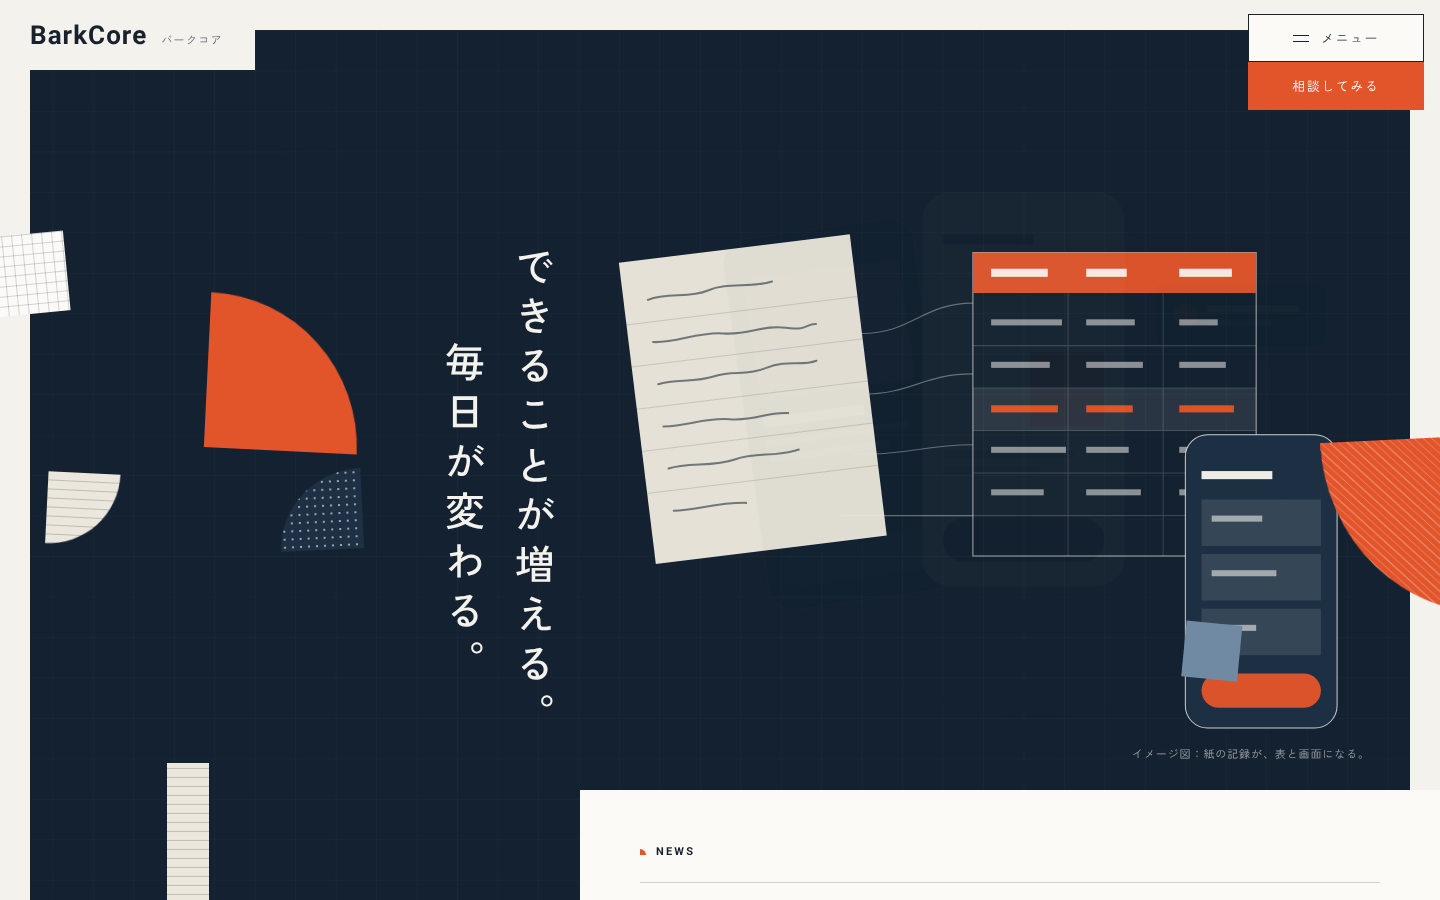
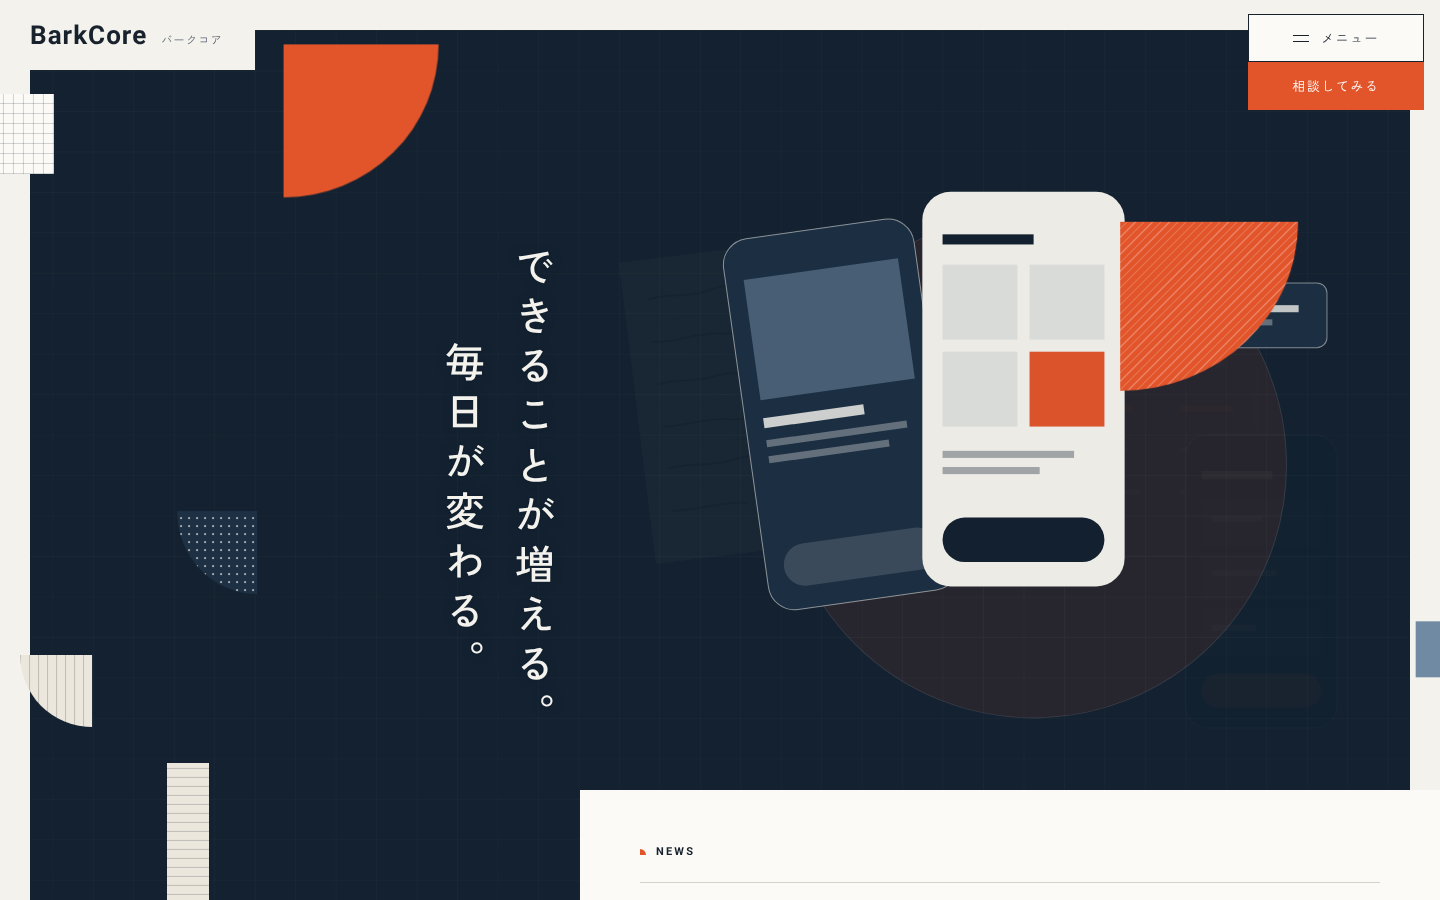
自社HP：メンバー削除、イメージ図の文言削除、FV切替時の文字重なりを修正
Claude-Session: https://claude.ai/code/session_01EobF4efUXWTodLQiocFJ82

diff --git a/03_outputs/2026-10-12_BarkCoreHP_トップ/index.html b/03_outputs/2026-10-12_BarkCoreHP_トップ/index.html
@@ -65,7 +65,7 @@ button{font:inherit;color:inherit}
 .rot{transform:rotate(var(--rot,-40deg));transform-origin:left bottom;transition:transform 2s var(--ease-out-expo)}
 .rot.is-active{transform:rotate(0)}
 /* スクロールに合わせてずれる断片（参考：PallaxEffect） */
-.plx{will-change:transform}
+.plx{}
 .deco{position:absolute;pointer-events:none}
 
 /* ---------- オープニング ---------- */
@@ -132,15 +132,12 @@ button{font:inherit;color:inherit}
 .fv-stage{position:relative;height:100%;background:var(--ink);overflow:hidden}
 .scene{position:absolute;inset:0;width:100%;height:100%;opacity:0;transition:opacity 1s var(--ease-sine-out)}
 .scene.is-on{opacity:1}
-.fv-copy{position:absolute;left:calc(400 * var(--px));top:clamp(110px,24vh,230px);z-index:5;writing-mode:vertical-rl;color:var(--paper);font-size:clamp(28px,calc(40 * var(--px)),44px);font-weight:500;letter-spacing:.24em;line-height:1.75;font-feature-settings:normal;white-space:nowrap}
+.fv-copy{position:absolute;left:calc(400 * var(--px));top:clamp(110px,24vh,230px);z-index:5;writing-mode:vertical-rl;color:var(--paper);font-size:clamp(28px,calc(40 * var(--px)),44px);font-weight:500;letter-spacing:.24em;line-height:1.75;font-feature-settings:normal;white-space:nowrap;text-shadow:0 0 10px var(--ink),0 0 3px var(--ink),0 0 1px var(--ink)}
 .fv-line{display:block}
 .fv-line+.fv-line{margin-top:2.4em}
 /* コピーは1行ずつ上から現れる（参考：pFv__text_item） */
 .js .fv-line{clip-path:inset(0 0 100% 0);transition:clip-path 1.2s var(--ease-out-quint)}
 .js .fv-line.is-active{clip-path:inset(0 0 0 0)}
-.fv-caption{position:absolute;right:40px;bottom:136px;text-align:right;z-index:5;color:rgba(244,242,237,.62);font-size:11px;display:grid}
-.fv-caption span{grid-area:1/1;opacity:0;transition:opacity 1s var(--ease-sine-out)}
-.fv-caption span.is-on{opacity:1}
 
 /* 断片（参考：pFv__motif） */
 .motifs{position:absolute;inset:0;z-index:4;pointer-events:none}
@@ -228,7 +225,6 @@ button{font:inherit;color:inherit}
 .svc{display:grid;grid-template-columns:repeat(12,1fr);gap:0 40px;margin-top:110px;align-items:start;position:relative}
 .svc-fig{grid-column:1/8;position:relative;aspect-ratio:16/10.5;margin:0}
 .svc-fig svg{width:100%;height:100%}
-.svc-fig figcaption{position:absolute;right:16px;bottom:12px;z-index:1;font-size:11px;color:rgba(244,242,237,.6);letter-spacing:.1em}
 .svc-txt{grid-column:8/13;padding-top:40px}
 .svc.rev .svc-fig{grid-column:6/13;grid-row:1}
 .svc.rev .svc-txt{grid-column:1/6;grid-row:1;padding-top:120px}
@@ -266,15 +262,6 @@ button{font:inherit;color:inherit}
 .policy-row{display:grid;grid-template-columns:3.4fr 5fr 2.6fr;gap:40px;margin-top:40px;align-items:start}
 .policy-row h2{font-size:22px;font-weight:500;letter-spacing:.14em;line-height:1.7;margin:0}
 .policy-row .label{margin-bottom:14px}
-.member{display:grid;grid-template-columns:3.4fr 7.6fr;gap:40px;margin-top:130px;padding-top:56px;border-top:1px solid var(--line);position:relative}
-.member-name{font-size:24px;font-weight:500;letter-spacing:.2em;margin-top:16px;line-height:1.5}
-.member-role{font-size:13px;color:var(--muted);letter-spacing:.12em}
-.years{display:grid;grid-template-columns:repeat(3,auto);justify-content:start;gap:0 64px;margin-top:36px}
-.years dt{font-size:13px;letter-spacing:.1em;color:var(--muted)}
-.years dd{margin:0;font-family:var(--font-en);font-size:52px;font-weight:400;letter-spacing:.02em;line-height:1.2}
-.years dd small{font-family:var(--font-jp);font-size:14px;margin-left:4px;letter-spacing:.1em}
-.years dd .ap{font-family:var(--font-jp);font-size:14px;margin-right:6px;letter-spacing:.1em}
-.fine{font-size:12px;color:var(--muted);margin-top:18px;line-height:1.9}
 
 /* ---------- CONTACT ---------- */
 .contact{background:var(--ink);color:var(--paper);padding:120px 0;position:relative;overflow:hidden}
@@ -331,20 +318,18 @@ button{font:inherit;color:inherit}
   .fv-copy{left:auto;right:28px;top:96px;font-size:28px;letter-spacing:.2em}
   .fv-line+.fv-line{margin-top:1.6em;margin-right:.3em}
   .scene{--vw:calc(100vw - var(--frame) * 2);max-width:none;width:calc(var(--vw) * 2.1);height:calc(var(--vw) * 2.1 * 860 / 1400);left:calc(var(--vw) * -.9);right:auto;top:auto;bottom:-40px}
-  .fv-caption{left:18px;right:18px;bottom:62px;font-size:10px;text-align:left}
   .m{top:calc(var(--t) * var(--px))}
   .m[data-m="1"]{--t:390;--l:-7;--w:86;--h:80;--mdv:17;--dur:10s}
-  .m[data-m="2"]{--t:520;--l:300;--w:76;--h:82;--mdv:15}
+  .m[data-m="2"]{--t:560;--l:290;--w:70;--h:76;--mdv:15}
   .m[data-m="3"]{--t:60;--l:40;--w:50;--h:56;--mdv:8}
   .m[data-m="4"]{--t:575;--l:119;--w:56;--h:54;--mdv:5}
   .m[data-m="5"]{--t:300;--l:180;--w:46;--h:46;--mdv:13}
-  .m[data-m="6"]{--t:466;--l:317;--w:28;--h:28;--mdv:5}
+  .m[data-m="6"]{--t:520;--l:230;--w:28;--h:28;--mdv:5}
   .pillar{display:none}
 }
 @media (min-width:600px) and (max-width:959px){
   .scene{width:calc(var(--vw) * 1.3);height:calc(var(--vw) * 1.3 * 860 / 1400);left:calc(var(--vw) * -.3);bottom:-30px}
   .fv-copy{right:64px;top:130px;font-size:36px}
-  .fv-caption{bottom:120px}
 }
 @media (max-width:767px){
   :root{--frame:12px}
@@ -362,7 +347,11 @@ button{font:inherit;color:inherit}
   .about{padding-top:90px}
   .about-in{grid-template-columns:1fr}
   .about-label{writing-mode:horizontal-tb;margin:0 0 18px}
-  .about-art{height:150px;margin-top:40px}
+  .about-art{height:130px;margin-top:56px}
+  .about-art .deco:nth-child(1){--s:76!important;left:24px!important;top:0!important}
+  .about-art .deco:nth-child(2){--s:56!important;left:122px!important;top:40px!important}
+  .about-art .deco:nth-child(3){--s:64!important;left:196px!important;top:6px!important}
+  .about-art .deco:nth-child(4){--s:36!important;left:282px!important;top:70px!important}
   .h2{font-size:23px;letter-spacing:.1em}
   .cascade{margin-top:30px;gap:22px}
   .cascade p{font-size:15px;line-height:2.1;letter-spacing:.06em}
@@ -386,9 +375,6 @@ button{font:inherit;color:inherit}
   .policy-deco{right:-10px;top:-40px;width:70px;height:70px}
   .policy-row{grid-template-columns:1fr;gap:20px}
   .policy-row .more-wrap{grid-column:1}
-  .member{grid-template-columns:1fr;gap:20px;margin-top:80px;padding-top:40px}
-  .years{gap:0 22px}
-  .years dd{font-size:36px}
   .contact{padding:84px 0}
   .contact-in{grid-template-columns:1fr;gap:20px}
   .contact-art{height:240px;order:2;transform:scale(.5);transform-origin:left top;margin-bottom:-120px}
@@ -552,11 +538,6 @@ button{font:inherit;color:inherit}
       <span class="fv-line" aria-hidden="true">できることが増える。</span>
       <span class="fv-line" aria-hidden="true">毎日が変わる。</span>
     </h1>
-    <p class="fv-caption" aria-live="off">
-      <span class="is-on" data-scene="1">イメージ図：紙の記録が、表と画面になる。</span>
-      <span data-scene="2">イメージ図：思い描いたサービスを、アプリに。</span>
-      <span data-scene="3">イメージ図：会社のことを、伝わるWebサイトに。</span>
-    </p>
   </div>
 
   <div class="motifs" aria-hidden="true">
@@ -577,7 +558,7 @@ button{font:inherit;color:inherit}
   <ul class="news-list">
     <li class="news-item">
       <button class="news-head" type="button" aria-expanded="false" aria-controls="news-1"><time datetime="2026-10-02">2026.10.02</time><span class="ttl">株式会社BarkCoreを設立しました。</span><span class="plus" aria-hidden="true"></span></button>
-      <div class="news-body" id="news-1" role="region"><p>2026年10月2日、株式会社BarkCoreを設立しました。業務システム・スマホアプリの企画開発と、Web制作を行います。</p></div>
+      <div class="news-body" id="news-1"><p>2026年10月2日、株式会社BarkCoreを設立しました。業務システム・スマホアプリの企画開発と、Web制作を行います。</p></div>
     </li>
   </ul>
 </section>
@@ -636,7 +617,6 @@ button{font:inherit;color:inherit}
             <path d="M0 0H90" stroke="#f4f2ed" stroke-opacity=".7"/><path d="M0 22H60" stroke="#f4f2ed" stroke-opacity=".35"/>
           </g>
         </svg>
-        <figcaption>イメージ図</figcaption>
       </figure>
       <div class="svc-txt">
         <p class="svc-num">01</p>
@@ -670,7 +650,6 @@ button{font:inherit;color:inherit}
             <rect x="16" y="236" width="118" height="34" rx="17" fill="#132130"/>
           </g>
         </svg>
-        <figcaption>イメージ図</figcaption>
       </figure>
       <div class="svc-txt">
         <p class="svc-num">02</p>
@@ -705,7 +684,7 @@ button{font:inherit;color:inherit}
   </div>
 </section>
 
-<!-- ===== 姿勢・開発担当 ===== -->
+<!-- ===== 姿勢 ===== -->
 <section class="sec" id="policy" aria-labelledby="policy-h">
   <div class="wrap">
     <div class="policy-wrap">
@@ -743,22 +722,6 @@ button{font:inherit;color:inherit}
       <p class="more-wrap"><a class="more" href="#contact"><span class="t">相談してみる</span><span class="arrow" aria-hidden="true"><svg viewBox="0 0 10 10"><path d="M3 1l4 4-4 4" fill="none" stroke="currentColor" stroke-width="1.4"/></svg><svg viewBox="0 0 10 10"><path d="M3 1l4 4-4 4" fill="none" stroke="currentColor" stroke-width="1.4"/></svg></span></a></p>
     </div>
 
-    <div class="member">
-      <div>
-        <p class="label">Member</p>
-        <p class="member-name">森 ゆづき</p>
-        <p class="member-role">企画・開発・デザイン</p>
-      </div>
-      <div>
-        <p>個人での受託開発を通じて、Web制作、スマホアプリ開発、システム開発に携わってきました。アプリの実装に加え、要件の整理やプロジェクトの立ち上げも経験しています。</p>
-        <dl class="years">
-          <div><dt>Web制作</dt><dd><span class="ap">約</span>4<small>年</small></dd></div>
-          <div><dt>スマホアプリ開発</dt><dd><span class="ap">約</span>4<small>年</small></dd></div>
-          <div><dt>システム開発</dt><dd><span class="ap">約</span>3<small>年</small></dd></div>
-        </dl>
-        <p class="fine">2026年10月時点の経験です。経験期間には重なりがあり、BarkCore設立以前の個人での経験です。</p>
-      </div>
-    </div>
   </div>
 </section>
 
@@ -832,17 +795,34 @@ button{font:inherit;color:inherit}
   // [x1,y1,回転1, x2,y2,回転2]（参考サイトの値）
   var MOVE_PC=[[130,-260,90,-124,-240,270],[-205,-191,-90,-270,-281,90],[20,-131,-180,287,147,0],[-72,2,-90,-168,-41,90],[-10,207,90,278,143,-90],[225,-48,180,-39,-203,0]];
   var MOVE_SP=[[-20,-306,0,-60,-343,-180],[-230,50,-90,-179,88,-180],[-20,202,-90,178,387,90],[175,-159,-90,213,-22,0],[-35,70,180,-121,5,90],[-100,-88,180,12,-42,0]];
-  var motifs=[].slice.call(document.querySelectorAll('.m')),scenes=document.querySelectorAll('.scene'),caps=document.querySelectorAll('.fv-caption span');
+  var motifs=[].slice.call(document.querySelectorAll('.m')),scenes=document.querySelectorAll('.scene');
   var phase=0,t1=null,t2=null,playing=false;
   function showScene(n){
     scenes.forEach(function(s){s.classList.toggle('is-on',s.dataset.scene==n)});
-    caps.forEach(function(c){c.classList.toggle('is-on',c.dataset.scene==n)});
+  }
+  function pxUnit(){return isPC()?innerWidth/1440:Math.min(innerWidth,560)/390}
+  // 動かす先がコピーに重なるときは、コピーの外へずらす
+  function avoid(m,x,y,u){
+    var f=fv.getBoundingClientRect(),c=document.querySelector('.fv-copy').getBoundingClientRect(),st=document.querySelector('.fv-stage').getBoundingClientRect();
+    var pad=14,cr=[c.left-f.left-pad,c.top-f.top-pad,c.right-f.left+pad,c.bottom-f.top+pad];
+    var w=m.offsetWidth,h=m.offsetHeight,bx=m.offsetLeft,by=m.offsetTop;
+    var sl=st.left-f.left,sr=st.right-f.left,stp=st.top-f.top,sb=st.bottom-f.top;
+    function box(dx,dy){var cx=bx+dx*u+w/2,cy=by+dy*u+h/2,r=Math.max(w,h)*.75+Math.max(w,h)*.5;return [cx-r,cy-r,cx+r,cy+r]}
+    function hit(b){return !(b[2]<cr[0]||b[0]>cr[2]||b[3]<cr[1]||b[1]>cr[3])}
+    function inside(b){return b[0]>=sl-20&&b[2]<=sr+20&&b[1]>=stp-20&&b[3]<=sb+20}
+    if(!hit(box(x,y)))return [x,y];
+    var r=Math.max(w,h)*.75,g=Math.max(w,h)*.5+10,cx0=bx+w/2,cy0=by+h/2;   // g：ゆらぎの分の余裕
+    var cands=[[(cr[0]-r-g-cx0)/u,y],[(cr[2]+r+g-cx0)/u,y],[x,(cr[3]+r+g-cy0)/u],[x,(cr[1]-r-g-cy0)/u]];
+    var best=null,bd=1e9;
+    cands.forEach(function(k){var b=box(k[0],k[1]);if(!hit(b)&&inside(b)){var d=Math.abs(k[0]-x)+Math.abs(k[1]-y);if(d<bd){bd=d;best=k}}});
+    return best||[x,y];
   }
   function moveTo(p){
-    var set=isPC()?MOVE_PC:MOVE_SP;
+    var set=isPC()?MOVE_PC:MOVE_SP,u=pxUnit();
     motifs.forEach(function(m,i){
       var v=p===0?[0,0,0]:set[i].slice((p-1)*3,(p-1)*3+3);
-      m.style.setProperty('--_x',v[0]);m.style.setProperty('--_y',v[1]);m.style.setProperty('--_roll',v[2]+'deg');
+      var xy=p===0?[0,0]:avoid(m,v[0],v[1],u);
+      m.style.setProperty('--_x',xy[0]);m.style.setProperty('--_y',xy[1]);m.style.setProperty('--_roll',v[2]+'deg');
     });
   }
   function next(){
@@ -902,10 +882,11 @@ button{font:inherit;color:inherit}
   /* ---------- スクロールに合わせてずれる断片（画面下95%→上10%で0へ） ---------- */
   var plx=[].slice.call(document.querySelectorAll('.plx'));
   function updPlx(){
-    var vh=innerHeight;
-    plx.forEach(function(el){
-      var start=parseFloat(el.dataset.plx)||0,top=el.parentNode.getBoundingClientRect().top+el.offsetTop;
-      var p=Math.min(1,Math.max(0,(vh*.95-top)/(vh*.85)));
+    var vh=innerHeight,k=innerWidth<768?.4:1;
+    var tops=plx.map(function(el){return el.parentNode.getBoundingClientRect().top+el.offsetTop});   // 先にまとめて読む
+    plx.forEach(function(el,i){
+      var start=(parseFloat(el.dataset.plx)||0)*k;
+      var p=Math.min(1,Math.max(0,(vh*.95-tops[i])/(vh*.85)));
       el.style.transform='translateY('+(start*(1-p)).toFixed(1)+'px)';
     });
   }
